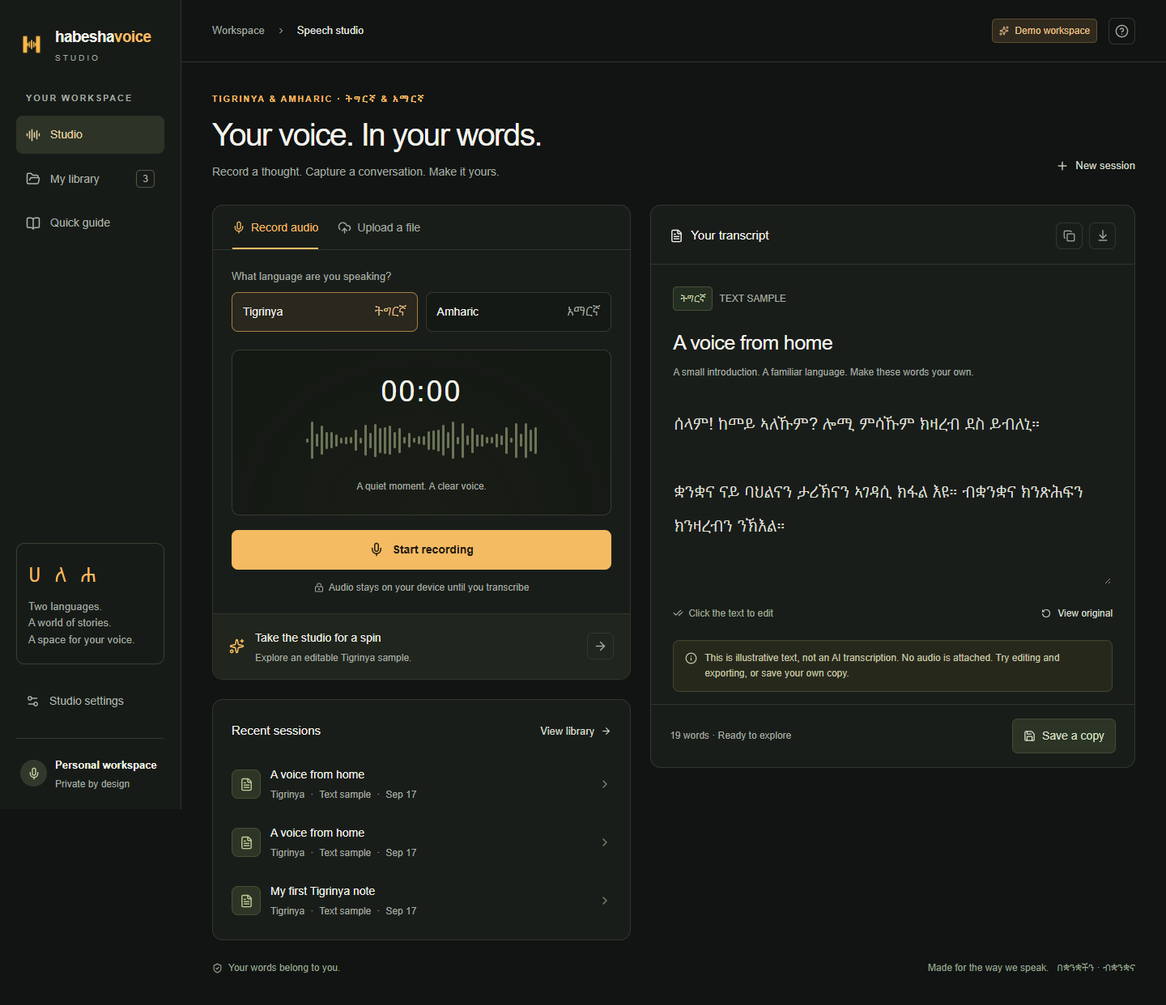
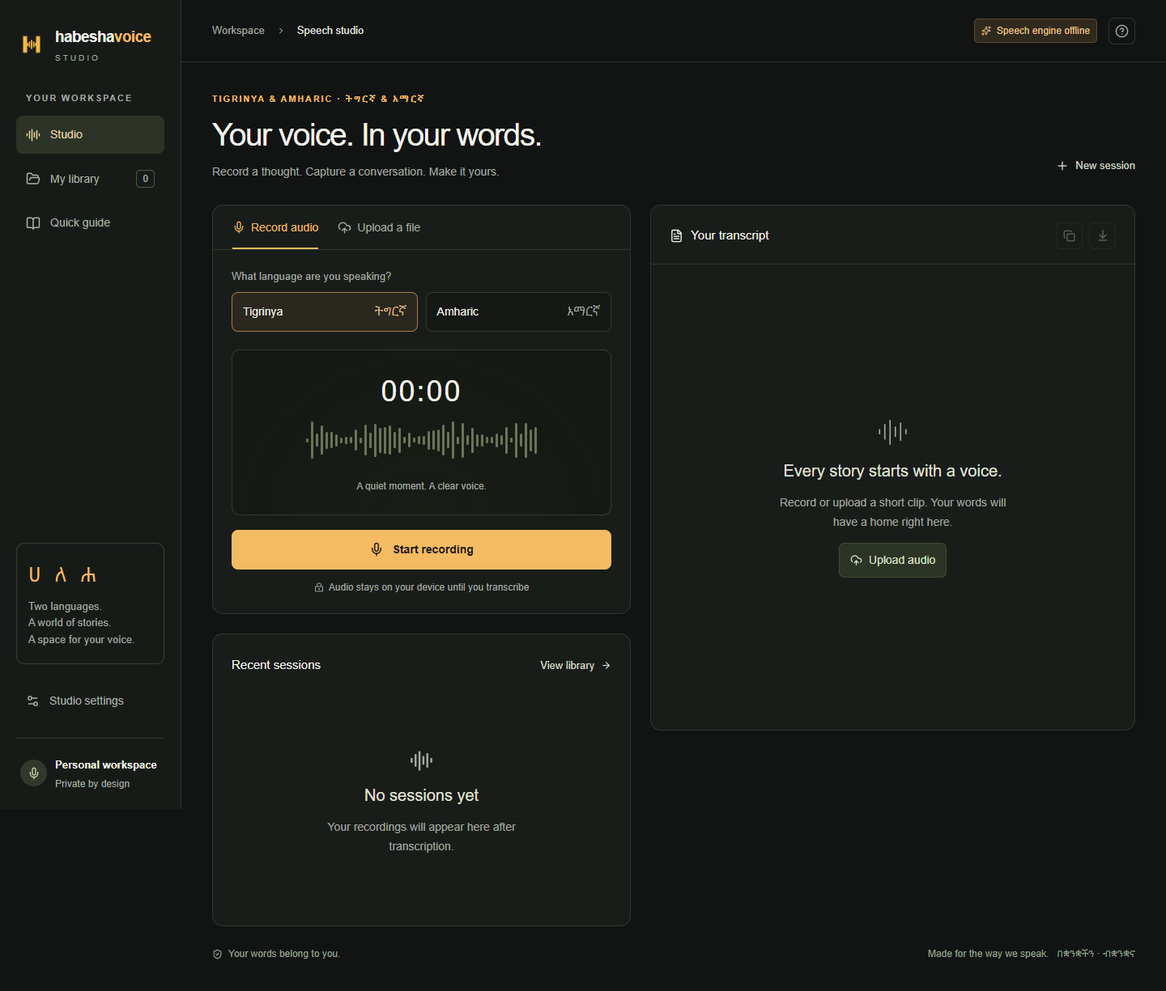
Remove demo transcripts and clarify speech readiness

diff --git a/app/studio.tsx b/app/studio.tsx
@@ -2,7 +2,7 @@
 
 import { useCallback, useEffect, useRef, useState } from "react";
 import { ArrowDownToLine, ArrowRight, AudioLines, BookOpen, Check, CheckCheck, ChevronRight, CircleHelp, CloudUpload, Copy, FileText, FolderOpen, Info, LoaderCircle, LockKeyhole, Mic, Plus, RotateCcw, Save, Search, Settings2, ShieldCheck, Sparkles, Square, Trash2, X } from "lucide-react";
-import { formatTime, LANGUAGES, SAMPLES, type Language, type Transcript } from "../lib/types";
+import { formatTime, LANGUAGES, type Language, type Transcript } from "../lib/types";
 
 type Config = { transcriptionReady: boolean; storageReady: boolean; signedIn: boolean };
 type Modal = "guide" | "settings" | "export" | "delete" | "discard" | null;
@@ -27,7 +27,7 @@ export default function Studio() {
   const [view, setView] = useState<"studio" | "library">("studio");
   const [capture, setCapture] = useState<"record" | "upload">("record");
   const [language, setLanguage] = useState<Language>("ti");
-  const [selected, setSelected] = useState<Transcript | null>({...SAMPLES[0]});
+  const [selected, setSelected] = useState<Transcript | null>(null);
   const [saved, setSaved] = useState<Transcript[]>([]);
   const [dirty, setDirty] = useState(false);
   const [showOriginal, setShowOriginal] = useState(false);
@@ -127,7 +127,6 @@ export default function Studio() {
     const apply = () => {setSelected(next ? {...next} : null);setDirty(false);setShowOriginal(false);setView("studio");};
     if(dirty){pending.current=apply;setModal("discard");} else apply();
   }
-  function loadSample() { changeDocument(SAMPLES.find(s => s.language===language)!); notify("Text sample opened. Edit it, save a copy, or export."); }
   async function startRecording() {
     if(!navigator.mediaDevices?.getUserMedia || !window.MediaRecorder){setError("Recording needs a supported browser over HTTPS. You can upload an audio file instead.");return;}
     setError("");setRequestingMic(true);
@@ -188,9 +187,8 @@ export default function Studio() {
     if(!selected || !selected.title.trim()) {setError("Give your transcript a title before saving.");return;}
     setBusy("save");setError("");
     try {
-      const isNew=selected.id.startsWith("sample-");
-      const d=await api<{transcript:Transcript}>(isNew?"/api/transcripts":"/api/transcripts/"+selected.id,{method:isNew?"POST":"PATCH",headers:{"Content-Type":"application/json"},body:JSON.stringify(isNew?{title:selected.title,text:selected.text,language:selected.language,sampleId:selected.id}:{title:selected.title,text:selected.text})});
-      setSelected(d.transcript);setSaved(old=>[d.transcript,...old.filter(t=>t.id!==d.transcript.id)]);setDirty(false);notify(isNew?"Your sample copy is saved to the library.":"Changes saved.");
+      const d=await api<{transcript:Transcript}>("/api/transcripts/"+selected.id,{method:"PATCH",headers:{"Content-Type":"application/json"},body:JSON.stringify({title:selected.title,text:selected.text})});
+      setSelected(d.transcript);setSaved(old=>[d.transcript,...old.filter(t=>t.id!==d.transcript.id)]);setDirty(false);notify("Changes saved.");
     }catch(e){setError((e as Error).message);}finally{setBusy(null);}
   }
   async function remove() {
@@ -212,16 +210,16 @@ export default function Studio() {
     downloadFile(filename+"."+format,content,format==="md"?"text/markdown;charset=utf-8":"text/plain;charset=utf-8");
     setModal(null);notify("Transcript exported.");
   }
-  const recent=[...saved.slice(0,3),...SAMPLES].slice(0,3);
+  const recent=saved.slice(0,3);
   const filtered=saved.filter(t=>(t.title+" "+t.text+" "+LANGUAGES[t.language].name).toLowerCase().includes(search.toLowerCase()));
   const wordCount=selected?.text.trim().split(/\s+/).filter(Boolean).length||0;
-  const row=(t:Transcript) => <button key={t.id} className={"session-row"+(selected?.id===t.id?" selected":"")} onClick={()=>changeDocument(t)}><span className="session-icon">{t.source==="demo"?<FileText size={17}/>:<AudioLines size={17}/>}</span><span><b>{t.title}</b><small>{LANGUAGES[t.language].name}<span>·</span>{t.source==="demo"?"Text sample":formatTime(t.duration)}<span>·</span>{t.id.startsWith("sample-")?"Explore":new Date(t.createdAt).toLocaleDateString(undefined,{month:"short",day:"numeric"})}</small></span><ChevronRight size={16}/></button>;
+  const row=(t:Transcript) => <button key={t.id} className={"session-row"+(selected?.id===t.id?" selected":"")} onClick={()=>changeDocument(t)}><span className="session-icon">{<AudioLines size={17}/>}</span><span><b>{t.title}</b><small>{LANGUAGES[t.language].name}<span>·</span>{formatTime(t.duration)}<span>·</span>{new Date(t.createdAt).toLocaleDateString(undefined,{month:"short",day:"numeric"})}</small></span><ChevronRight size={16}/></button>;
   return <div className="shell" inert={!hydrated} aria-busy={!hydrated}>
     <aside className="sidebar"><Brand/><div><div className="nav-label">Your workspace</div><nav className="nav" aria-label="Main navigation"><button className={view==="studio"?"active":""} onClick={()=>setView("studio")}><AudioLines size={18}/>Studio</button><button className={view==="library"?"active":""} onClick={()=>setView("library")}><FolderOpen size={18}/>My library<span className="count">{saved.length}</span></button><button onClick={()=>setModal("guide")}><BookOpen size={18}/>Quick guide</button></nav></div><div className="sidebar-bottom"><div className="language-note"><p className="native" lang="ti">ሀ ለ ሐ</p><p>Two languages.<br/>A world of stories.<br/>A space for your voice.</p></div><nav className="nav" aria-label="Workspace settings"><button onClick={()=>setModal("settings")}><Settings2 size={17}/>Studio settings</button></nav><div className="profile"><span className="avatar"><Mic size={16}/></span><span><b>Personal workspace</b><small>Private by design</small></span></div></div></aside>
-    <div className="content"><header className="topbar"><div className="breadcrumb">Workspace<ChevronRight size={12}/><strong>{view==="studio"?"Speech studio":"My library"}</strong></div><Brand mobile/><div className="top-actions"><button className={"badge"+(!config?.transcriptionReady?" amber":"")} onClick={()=>setModal("settings")}>{config?.transcriptionReady?<AudioLines size={12}/>:<Sparkles size={12}/>} {config?.transcriptionReady?"Speech engine connected":"Demo workspace"}</button><button className="icon-button" aria-label="Open quick guide" onClick={()=>setModal("guide")}><CircleHelp size={17}/></button></div></header>
+    <div className="content"><header className="topbar"><div className="breadcrumb">Workspace<ChevronRight size={12}/><strong>{view==="studio"?"Speech studio":"My library"}</strong></div><Brand mobile/><div className="top-actions"><button className={"badge"+(!config?.transcriptionReady?" amber":"")} onClick={()=>setModal("settings")}>{config?.transcriptionReady?<AudioLines size={12}/>:<Sparkles size={12}/>} {config?.transcriptionReady?"Speech engine connected":"Speech engine offline"}</button><button className="icon-button" aria-label="Open quick guide" onClick={()=>setModal("guide")}><CircleHelp size={17}/></button></div></header>
     <main className="main"><div className="intro"><div><p className="eyebrow">Tigrinya & Amharic · ትግርኛ & አማርኛ</p><h1>{view==="studio"?"Your voice. In your words.":"A home for your words."}</h1><p>{view==="studio"?"Record a thought. Capture a conversation. Make it yours.":"Your saved transcripts, ready for the next chapter."}</p></div><button className="text-button" onClick={()=>changeDocument(null)}><Plus size={16}/>New session</button></div>
     {error&&<div className="alert" role="alert"><Info size={17}/><span>{error}</span><button aria-label="Dismiss error" onClick={()=>setError("")}><X size={16}/></button></div>}
-    {view==="library"?<><label className="searchbar"><Search size={18}/><input aria-label="Search transcripts" placeholder="Search your transcripts…" value={search} onChange={e=>setSearch(e.target.value)}/></label><section className="panel library-list">{filtered.length?filtered.map(row):<div className="empty"><FolderOpen size={32}/><h3>{search?"No matches yet":"Your library starts here"}</h3><p>{search?"Try another title, word, or language.":"Save a sample or transcribe your first recording to keep your words here."}</p><button className="button" onClick={()=>{setView("studio");loadSample();}}>Explore a sample<ArrowRight size={15}/></button></div>}</section></>:
+    {view==="library"?<><label className="searchbar"><Search size={18}/><input aria-label="Search transcripts" placeholder="Search your transcripts…" value={search} onChange={e=>setSearch(e.target.value)}/></label><section className="panel library-list">{filtered.length?filtered.map(row):<div className="empty"><FolderOpen size={32}/><h3>{search?"No matches yet":"Your library starts here"}</h3><p>{search?"Try another title, word, or language.":"Transcribe your first recording to keep your words here."}</p><button className="button" onClick={()=>setView("studio")}>Open studio<ArrowRight size={15}/></button></div>}</section></>:
     <div className="workspace"><div className="left-column">
       <section className="panel capture-panel" aria-label="Create a transcript"><div className="tabs" role="tablist" aria-label="Audio source"><button role="tab" aria-selected={capture==="record"} className={capture==="record"?"active":""} disabled={recording||!!busy} onClick={()=>setCapture("record")}><Mic size={16}/>Record audio</button><button role="tab" aria-selected={capture==="upload"} className={capture==="upload"?"active":""} disabled={recording||!!busy} onClick={()=>setCapture("upload")}><CloudUpload size={17}/>Upload a file</button></div>
       <div className="capture-body"><span className="field-label" id="language-label">What language are you speaking?</span><div className="language-picker" role="group" aria-labelledby="language-label">{(["ti","am"] as Language[]).map(l=><button key={l} className={language===l?"selected":""} aria-pressed={language===l} disabled={recording||!!busy} onClick={()=>setLanguage(l)}><span>{LANGUAGES[l].name}</span><span className="native" lang={l}>{LANGUAGES[l].native}</span></button>)}</div>
@@ -230,21 +228,20 @@ export default function Studio() {
       {fileUrl&&!recording&&<audio className="form-audio" controls src={fileUrl} aria-label="Review your audio before uploading"/>}
       {file&&!recording?<><label className="privacy-toggle"><input type="checkbox" checked={consent} onChange={e=>setConsent(e.target.checked)}/>I have permission to process this recording. Upload it for transcription and save it in my private library.</label><button className="record-control" disabled={!consent||!!busy} onClick={()=>void transcribe()}>{busy==="transcribe"?<LoaderCircle size={18} className="loading-spin"/>:<AudioLines size={18}/>} {busy==="transcribe"?"Transcribing your audio…":"Transcribe "+LANGUAGES[language].name}</button><button className="discard" disabled={!!busy} onClick={()=>{setFile(null);setSeconds(0);setConsent(false);}}>Discard audio{fileDuration>0?" · "+formatTime(fileDuration):""}</button></>:capture==="record"?<button className="record-control" disabled={requestingMic||!!busy} onClick={()=>recording?recorder.current?.stop():void startRecording()}>{requestingMic?<LoaderCircle size={18} className="loading-spin"/>:recording?<Square size={16} fill="currentColor"/>:<Mic size={18}/>} {requestingMic?"Opening microphone…":recording?"Stop recording":"Start recording"}</button>:null}
       <p className="capture-foot"><LockKeyhole size={12}/>{recording?"Stops automatically at 5 minutes":"Audio stays on your device until you transcribe"}</p></div>
-      <div className="sample-callout"><Sparkles size={19}/><div><b>Take the studio for a spin</b><p>Explore an editable {LANGUAGES[language].name} sample.</p></div><button className="icon-button" onClick={loadSample} aria-label={"Open "+LANGUAGES[language].name+" demo sample"}><ArrowRight size={17}/></button></div></section>
-      <section className="panel sessions"><div className="panel-head"><h2 className="panel-title">Recent sessions</h2><button className="text-button" onClick={()=>setView("library")}>View library<ArrowRight size={13}/></button></div><div className="session-list">{recent.map(row)}</div></section>
+      </section>
+      <section className="panel sessions"><div className="panel-head"><h2 className="panel-title">Recent sessions</h2><button className="text-button" onClick={()=>setView("library")}>View library<ArrowRight size={13}/></button></div><div className="session-list">{recent.length?recent.map(row):<div className="empty"><AudioLines size={29}/><h3>No sessions yet</h3><p>Your recordings will appear here after transcription.</p></div>}</div></section>
     </div>
-    <section className="panel transcript-panel" aria-label="Transcript editor"><div className="panel-head"><h2 className="panel-title"><FileText size={17}/>Your transcript</h2><div className="transcript-tools"><button className="icon-button" aria-label="Copy transcript" disabled={!selected} onClick={()=>void copy()}><Copy size={15}/></button><button className="icon-button" aria-label="Export transcript" disabled={!selected} onClick={()=>setModal("export")}><ArrowDownToLine size={16}/></button>{selected&&!selected.id.startsWith("sample-")&&<button className="icon-button" aria-label="Delete transcript" onClick={()=>setModal("delete")}><Trash2 size={15}/></button>}</div></div>
-    {selected?<><div className="document"><div className="document-meta"><span className="badge">{LANGUAGES[selected.language].native}</span><span>{selected.source==="demo"?"TEXT SAMPLE":formatTime(selected.duration)+" AUDIO"}</span></div><input className="document-title" aria-label="Transcript title" disabled={!!busy} maxLength={120} value={selected.title} onChange={e=>{setSelected({...selected,title:e.target.value});setDirty(true);}}/><p className="document-subtitle">{selected.source==="demo"?"A small introduction. A familiar language. Make these words your own.":"Listen back, check the details, and make your final edits."}</p>
+    <section className="panel transcript-panel" aria-label="Transcript editor"><div className="panel-head"><h2 className="panel-title"><FileText size={17}/>Your transcript</h2><div className="transcript-tools"><button className="icon-button" aria-label="Copy transcript" disabled={!selected} onClick={()=>void copy()}><Copy size={15}/></button><button className="icon-button" aria-label="Export transcript" disabled={!selected} onClick={()=>setModal("export")}><ArrowDownToLine size={16}/></button>{selected&&<button className="icon-button" aria-label="Delete transcript" onClick={()=>setModal("delete")}><Trash2 size={15}/></button>}</div></div>
+    {selected?<><div className="document"><div className="document-meta"><span className="badge">{LANGUAGES[selected.language].native}</span><span>{formatTime(selected.duration)+" AUDIO"}</span></div><input className="document-title" aria-label="Transcript title" disabled={!!busy} maxLength={120} value={selected.title} onChange={e=>{setSelected({...selected,title:e.target.value});setDirty(true);}}/><p className="document-subtitle">Listen back, check the details, and make your final edits.</p>
     {selected.hasAudio&&<audio controls src={"/api/transcripts/"+selected.id+"/audio"} aria-label="Play original recording"/>}
     <label className="visually-hidden" htmlFor="transcript">Transcript text</label><textarea id="transcript" disabled={!!busy} lang={selected.language} spellCheck={false} readOnly={showOriginal} value={showOriginal?selected.original:selected.text} onChange={e=>{setSelected({...selected,text:e.target.value});setDirty(true);}} maxLength={50000}/><div className="print-content" lang={selected.language}>{selected.text}</div>
     <div className="doc-hint"><span style={{display:"flex",gap:6,alignItems:"center"}}>{showOriginal?<LockKeyhole size={12}/>:<CheckCheck size={13}/>} {showOriginal?"Original text · Read only":"Click the text to edit"}</span><button className="text-button" style={{fontSize:12,marginLeft:"auto"}} onClick={()=>setShowOriginal(!showOriginal)}><RotateCcw size={12}/>{showOriginal?"Back to edits":"View original"}</button></div>
-    {selected.source==="demo"&&<div className="demo-note"><Info size={15}/><span>This is illustrative text, not an AI transcription. No audio is attached. Try editing and exporting, or save your own copy.</span></div>}
-    </div><div className="doc-bottom"><span>{wordCount} words · {dirty?"Unsaved changes":selected.id.startsWith("sample-")?"Ready to explore":"Saved to library"}</span><button className="button" disabled={!!busy||(!dirty&&!selected.id.startsWith("sample-"))} onClick={()=>void save()}>{busy==="save"?<LoaderCircle size={15} className="loading-spin"/>:<Save size={15}/>} {selected.id.startsWith("sample-")?"Save a copy":"Save changes"}</button></div></>:<div className="empty" style={{flex:1}}><AudioLines size={39} strokeWidth={1}/><h3>Every story starts with a voice.</h3><p>Record or upload a short clip. Your words will have a home right here.</p><button className="button" onClick={loadSample}><Sparkles size={15}/>Explore a sample</button></div>}</section></div>}
+    </div><div className="doc-bottom"><span>{wordCount} words · {dirty?"Unsaved changes":"Saved to library"}</span><button className="button" disabled={!!busy||!dirty} onClick={()=>void save()}>{busy==="save"?<LoaderCircle size={15} className="loading-spin"/>:<Save size={15}/>} Save changes</button></div></>:<div className="empty" style={{flex:1}}><AudioLines size={39} strokeWidth={1}/><h3>Every story starts with a voice.</h3><p>Record or upload a short clip. Your words will have a home right here.</p><button className="button" onClick={()=>setCapture("upload")}><CloudUpload size={15}/>Upload audio</button></div>}</section></div>}
     <footer className="footer"><span><ShieldCheck size={13}/>Your words belong to you.</span><span>Made for the way we speak. &nbsp; በቋንቋችን · ብቋንቋና</span></footer></main></div>
     {toast&&<div className="toast" role="status"><Check size={16}/>{toast}</div>}
     {modal&&<div className="modal-backdrop" onMouseDown={e=>{if(e.target===e.currentTarget&&!busy)setModal(null);}}><div ref={modalRef} className="modal" role="dialog" aria-modal="true" aria-labelledby="modal-title"><div className="modal-head"><h2 id="modal-title">{{guide:"A little guide to the studio",settings:"Your studio",export:"Take your words with you",delete:"Delete this session?",discard:"You have unsaved edits"}[modal]}</h2><button className="icon-button" aria-label="Close dialog" disabled={!!busy} onClick={()=>setModal(null)}><X size={17}/></button></div>
-    {modal==="guide"&&<><h3>01 · Bring your voice</h3><p>Choose Tigrinya or Amharic. Record up to five minutes, or upload an audio file. Use headphones and a quiet room for clearer speech.</p><h3>02 · Make it accurate</h3><p>Review the transcript while listening to your recording. Names, numbers, regional speech, and mixed languages deserve an extra check. Your original transcript stays available.</p><h3>03 · Make it useful</h3><p>Save your edits in the library. Copy your words, download a text or Markdown file, or print to PDF.</p><div className="demo-note"><Info size={16}/><span>Text samples let you try editing and exports immediately. Real transcription requires a connected speech engine.</span></div></>}
-    {modal==="settings"&&<><div className="status-row"><span>Languages</span><b>Tigrinya & Amharic</b></div><div className="status-row"><span>Speech engine</span><span className="badge amber">{config?.transcriptionReady?"Connected":"Not connected"}</span></div><div className="status-row"><span>Private library</span><span className="badge">{config?.storageReady&&config.signedIn?"Available":"Unavailable"}</span></div><h3>{config?.transcriptionReady?"Ready for your voice":"Demo ready. Bring your speech engine."}</h3><p>{config?.transcriptionReady?"You can transcribe recordings up to five minutes. Accuracy varies; review each transcript before relying on it.":"You can record, preview audio, edit text samples, save copies, and export. To transcribe real speech, the workspace owner must connect the inference service included in the repository."}</p><h3>Keep the studio close</h3><p>Use your browser’s Install app or Add to Home Screen option to open HabeshaVoice as its own app. Transcription and your private library need an internet connection.</p><h3>Your recordings, your choice</h3><p>Audio uploads only when you choose Transcribe. Saved recordings and transcripts stay in your private library until you delete the session. Recordings are not used to train models by this app.</p></>}
+    {modal==="guide"&&<><h3>01 · Bring your voice</h3><p>Choose Tigrinya or Amharic. Record up to five minutes, or upload an audio file. Use headphones and a quiet room for clearer speech.</p><h3>02 · Make it accurate</h3><p>Review the transcript while listening to your recording. Names, numbers, regional speech, and mixed languages deserve an extra check. Your original transcript stays available.</p><h3>03 · Make it useful</h3><p>Save your edits in the library. Copy your words, download a text or Markdown file, or print to PDF.</p></>}
+    {modal==="settings"&&<><div className="status-row"><span>Languages</span><b>Tigrinya & Amharic</b></div><div className="status-row"><span>Speech engine</span><span className="badge amber">{config?.transcriptionReady?"Connected":"Not connected"}</span></div><div className="status-row"><span>Private library</span><span className="badge">{config?.storageReady&&config.signedIn?"Available":"Unavailable"}</span></div><h3>{config?.transcriptionReady?"Ready for your voice":"Speech engine setup required"}</h3><p>{config?.transcriptionReady?"You can transcribe recordings up to five minutes. Accuracy varies; review each transcript before relying on it.":"Recording and audio preview are available. Transcription requires the workspace owner to connect the inference service included in the repository."}</p><h3>Keep the studio close</h3><p>Use your browser’s Install app or Add to Home Screen option to open HabeshaVoice as its own app. Transcription and your private library need an internet connection.</p><h3>Your recordings, your choice</h3><p>Audio uploads only when you choose Transcribe. Saved recordings and transcripts stay in your private library until you delete the session. Recordings are not used to train models by this app.</p></>}
     {modal==="export"&&<><p>Export the current edited transcript in {selected?LANGUAGES[selected.language].name:"your language"}.</p><div style={{display:"grid",gap:10}}><button className="button" onClick={()=>exportText("txt")}><FileText size={17}/>Plain text (.txt)</button><button className="button" onClick={()=>exportText("md")}><FileText size={17}/>Markdown (.md)</button><button className="button" onClick={()=>{setModal(null);setTimeout(()=>window.print(),100);}}><ArrowDownToLine size={17}/>Print / Save as PDF</button></div></>}
     {modal==="delete"&&<><p>This permanently deletes <strong>{selected?.title}</strong> and its saved audio from your library. Export anything you want to keep first.</p><button className="button danger" disabled={!!busy} onClick={()=>void remove()}>{busy?<LoaderCircle className="loading-spin" size={16}/>:<Trash2 size={16}/>}Delete session</button></>}
     {modal==="discard"&&<><p>Your changes have not been saved. You can keep editing, or discard these changes and continue.</p><div style={{display:"flex",gap:10}}><button className="button" onClick={()=>setModal(null)}>Keep editing</button><button className="button danger" onClick={()=>{setModal(null);pending.current?.();pending.current=null;}}>Discard changes</button></div></>}

diff --git a/tests/browser/studio.spec.ts b/tests/browser/studio.spec.ts
@@ -1,75 +1,41 @@
 import {test,expect} from "@playwright/test";
-import fs from "node:fs/promises";
-test("workspace, edit, persistent save, export and delete",async({page})=>{
+test("honest empty workspace and no generated sample text",async({page})=>{
  const errors:string[]=[];page.on("pageerror",e=>errors.push(e.message));
- await page.goto("/"); await expect(page.locator(".shell")).toHaveAttribute("aria-busy","false");
- await expect(page.getByRole("heading",{name:"Your voice. In your words."})).toBeVisible();
- await expect(page.getByRole("alert")).toHaveCount(0);
- const text=page.getByRole("textbox",{name:"Transcript text"});
- const original=await text.inputValue();
- await page.getByRole("textbox",{name:"Transcript title"}).fill("Browser verification note");
- await text.fill(original+"\n\nሰላም!"); await expect(page.getByText("Unsaved changes")).toBeVisible();
- await page.getByRole("button",{name:"Save a copy",exact:true}).click();
- await expect(page.getByRole("button",{name:"Save changes",exact:true})).toBeDisabled();
- await page.getByRole("button",{name:"View original",exact:true}).click();
- await expect(text).toHaveValue(original);
- await page.getByRole("button",{name:"Back to edits",exact:true}).click();
- await expect(text).toHaveValue(original+"\n\nሰላም!");
- await page.getByRole("button",{name:"Export transcript",exact:true}).click();
- const downloading=page.waitForEvent("download");
- await page.getByRole("button",{name:"Plain text (.txt)",exact:true}).click();
- const download=await downloading;
- expect(await download.failure()).toBeNull();
- const path=await download.path();expect(path).toBeTruthy();
- expect(await fs.readFile(path!,"utf8")).toBe(original+"\n\nሰላም!");
- await page.reload();
- await page.getByRole("button",{name:/My library/}).click();
- await page.getByRole("textbox",{name:"Search transcripts"}).fill("Browser verification note");
- await page.getByRole("button",{name:/Browser verification note/}).click();
- await expect(text).toHaveValue(original+"\n\nሰላም!");
- await page.getByRole("button",{name:"Delete transcript",exact:true}).click();
- await page.getByRole("button",{name:"Delete session",exact:true}).click();
+ await page.goto("/");await expect(page.locator(".shell")).toHaveAttribute("aria-busy","false");
  await expect(page.getByRole("heading",{name:"Every story starts with a voice."})).toBeVisible();
+ await expect(page.getByRole("heading",{name:"No sessions yet"})).toBeVisible();
+ await expect(page.getByText("Speech engine offline")).toBeVisible();
+ await expect(page.getByRole("textbox",{name:"Transcript text"})).toHaveCount(0);
+ await page.getByRole("button",{name:/My library/}).click();
+ await expect(page.getByRole("heading",{name:"Your library starts here"})).toBeVisible();
  expect(errors).toEqual([]);
 });
-test("fake microphone capture, preview and consent gate",async({page,context})=>{
+test("recording, preview, consent and disconnected speech engine",async({page,context})=>{
  await context.grantPermissions(["microphone"]);
- await page.goto("/"); await expect(page.locator(".shell")).toHaveAttribute("aria-busy","false");
+ await page.goto("/");await expect(page.locator(".shell")).toHaveAttribute("aria-busy","false");
  await page.getByRole("button",{name:"Start recording",exact:true}).click();
  await expect(page.getByRole("button",{name:"Stop recording",exact:true})).toBeVisible();
- await expect(page.locator(".timer")).toHaveText(/00:0[1-9]/);
  await page.getByRole("button",{name:"Stop recording",exact:true}).click();
  await expect(page.locator("audio.form-audio")).toBeVisible();
  await expect(page.getByRole("button",{name:"Transcribe Tigrinya",exact:true})).toBeDisabled();
  await page.getByRole("checkbox").check();
  await page.getByRole("button",{name:"Transcribe Tigrinya",exact:true}).click();
  await expect(page.getByRole("dialog")).toContainText("Not connected");
- await page.getByRole("button",{name:"Close dialog",exact:true}).click();
- await expect(page.locator("audio.form-audio")).toBeVisible();
 });
-test("mobile layout, language switching and sample editing",async({page})=>{
- await page.setViewportSize({width:390,height:844});await page.goto("/"); await expect(page.locator(".shell")).toHaveAttribute("aria-busy","false");
+test("mobile layout and language switching",async({page})=>{
+ await page.setViewportSize({width:390,height:844});await page.goto("/");
+ await expect(page.locator(".shell")).toHaveAttribute("aria-busy","false");
  await page.getByRole("button",{name:"Amharic አማርኛ",exact:true}).click();
- await page.getByRole("button",{name:"Open Amharic demo sample",exact:true}).click();
- await expect(page.getByRole("textbox",{name:"Transcript title"})).toHaveValue("A moment to connect");
+ await expect(page.getByRole("button",{name:"Amharic አማርኛ",exact:true})).toHaveAttribute("aria-pressed","true");
  expect(await page.evaluate(()=>document.documentElement.scrollWidth<=innerWidth)).toBe(true);
- await page.screenshot({path:"test-results/studio-mobile.png",fullPage:true});
+ await page.screenshot({path:"docs/studio-mobile.png",fullPage:true});
 });
-test("unsaved changes are protected when switching documents",async({page})=>{
- await page.goto("/"); await expect(page.locator(".shell")).toHaveAttribute("aria-busy","false");
- await page.getByRole("textbox",{name:"Transcript title"}).fill("Unsaved title"); await expect(page.getByText("Unsaved changes")).toBeVisible();
- await page.getByRole("button",{name:"Amharic አማርኛ",exact:true}).click(); await page.getByRole("button",{name:"Open Amharic demo sample",exact:true}).click();
- await expect(page.getByRole("dialog")).toContainText("unsaved edits");
- await page.getByRole("button",{name:"Keep editing",exact:true}).click();
- await expect(page.getByRole("textbox",{name:"Transcript title"})).toHaveValue("Unsaved title");
-});
-test("desktop screenshot and install manifest",async({page})=>{
- await page.goto("/"); await expect(page.locator(".shell")).toHaveAttribute("aria-busy","false");
- await expect(page.getByRole("alert")).toHaveCount(0);
- await page.screenshot({path:"test-results/studio-desktop.png",fullPage:true});
+test("manifest and desktop rendering",async({page})=>{
+ await page.goto("/");await expect(page.locator(".shell")).toHaveAttribute("aria-busy","false");
  const manifest=await(await page.request.get("/manifest.webmanifest")).json();
- expect(manifest.display).toBe("standalone");
- expect(manifest.name).toBe("HabeshaVoice Studio");
+ expect(manifest.display).toBe("standalone");expect(manifest.name).toBe("HabeshaVoice Studio");
+ await expect(page.getByRole("alert")).toHaveCount(0);
+ await page.screenshot({path:"docs/studio-desktop.png",fullPage:true});
 });
 
 

diff --git a/lib/server.ts b/lib/server.ts
@@ -22,11 +22,11 @@ export function failure(e:unknown){
  console.error("HabeshaVoice request failed",{type:e instanceof Error?e.name:"Unknown"});
  return json({error:"Your request could not be completed. Please try again; your edits have been preserved."},503);
 }
-export type Row={id:string;owner:string;title:string;language:"ti"|"am";text:string;original:string;created_at:string;duration:number;source:"demo"|"recording"|"upload";audio_key:string|null;mime:string|null};
+export type Row={id:string;owner:string;title:string;language:"ti"|"am";text:string;original:string;created_at:string;duration:number;source:"recording"|"upload";audio_key:string|null;mime:string|null};
 export function publicTranscript(row:Row):Transcript{return{id:row.id,title:row.title,language:row.language,text:row.text,original:row.original,createdAt:row.created_at,duration:row.duration,source:row.source,hasAudio:!!row.audio_key};}
 export async function getOwned(id:string,user:string){
  if(!/^[0-9a-f-]{36}$/i.test(id))throw new ApiError(404,"This transcript was not found.");
- const row=await db().prepare("SELECT * FROM transcripts WHERE id = ? AND owner = ?").bind(id,user).first<Row>();
+ const row=await db().prepare("SELECT * FROM transcripts WHERE id = ? AND owner = ? AND source != 'demo'").bind(id,user).first<Row>();
  if(!row)throw new ApiError(404,"This transcript was not found.");
  return row;
 }
@@ -40,7 +40,7 @@ export async function boundedBody(request:Request,max:number){
 }
 export async function readJson(request:Request){const bytes=await boundedBody(request,200000);return JSON.parse(new TextDecoder().decode(bytes));}
 export async function libraryLimit(user:string){
- const count=await db().prepare("SELECT count(*) AS n FROM transcripts WHERE owner = ?").bind(user).first<{n:number}>();
+ const count=await db().prepare("SELECT count(*) AS n FROM transcripts WHERE owner = ? AND source != 'demo'").bind(user).first<{n:number}>();
  if((count?.n??0)>=100)throw new ApiError(429,"Your library holds 100 sessions. Export and delete a session before adding another.");
 }
 

diff --git a/app/api/transcripts/route.ts b/app/api/transcripts/route.ts
@@ -1,14 +1,3 @@
-import { createSchema } from "../../../lib/validation";
-import { SAMPLES } from "../../../lib/types";
-import { db,owner,json,failure,publicTranscript,readJson,libraryLimit,ApiError,type Row } from "../../../lib/server";
+import { db,owner,json,failure,publicTranscript,type Row } from "../../../lib/server";
 export const dynamic="force-dynamic";
-export async function GET(){try{const user=await owner();const result=await db().prepare("SELECT * FROM transcripts WHERE owner = ? ORDER BY created_at DESC LIMIT 100").bind(user).all<Row>();return json({transcripts:result.results.map(publicTranscript)});}catch(e){return failure(e);}}
-export async function POST(request:Request){try{
- const user=await owner(request);const input=createSchema.parse(await readJson(request));
- const sample=SAMPLES.find(s=>s.id===input.sampleId && s.language===input.language);if(!sample)throw new ApiError(400,"Choose a matching sample language.");
- await libraryLimit(user);
- const id=crypto.randomUUID(),createdAt=new Date().toISOString();
- await db().prepare("INSERT INTO transcripts (id,owner,title,language,text,original,created_at,duration,source) VALUES (?,?,?,?,?,?,?,0,'demo')").bind(id,user,input.title,input.language,input.text,sample.original,createdAt).run();
- return json({transcript:{id,title:input.title,language:input.language,text:input.text,original:sample.original,createdAt,duration:0,source:"demo",hasAudio:false}},201);
-}catch(e){return failure(e);}}
-
+export async function GET(){try{const user=await owner();const result=await db().prepare("SELECT * FROM transcripts WHERE owner = ? AND source != 'demo' ORDER BY created_at DESC LIMIT 100").bind(user).all<Row>();return json({transcripts:result.results.map(publicTranscript)});}catch(e){return failure(e);}}

diff --git a/lib/types.ts b/lib/types.ts
@@ -1,11 +1,5 @@
 export type Language = "ti" | "am";
-export type Transcript = { id: string; title: string; language: Language; text: string; original: string; createdAt: string; duration: number; source: "demo" | "recording" | "upload"; hasAudio: boolean; };
+export type Transcript = { id: string; title: string; language: Language; text: string; original: string; createdAt: string; duration: number; source: "recording" | "upload"; hasAudio: boolean; };
 export const LANGUAGES = { ti: { name: "Tigrinya", native: "ትግርኛ" }, am: { name: "Amharic", native: "አማርኛ" } };
-const ti = "ሰላም! ከመይ ኣለኹም? ሎሚ ምሳኹም ክዛረብ ደስ ይብለኒ።\n\nቋንቋና ናይ ባህልናን ታሪኽናን ኣገዳሲ ክፋል እዩ። ብቋንቋና ክንጽሕፍን ክንዛረብን ንኽእል።";
-const am = "ሰላም! እንዴት ናችሁ? ዛሬ ከእናንተ ጋር ማውራት ደስ ይለኛል።\n\nቋንቋችን የባህላችንና የታሪካችን አስፈላጊ ክፍል ነው። በቋንቋችን መጻፍና መናገር እንችላለን።";
-export const SAMPLES: Transcript[] = [
- { id: "sample-ti", title: "A voice from home", language: "ti", text: ti, original: ti, createdAt: "2026-09-16T09:00:00Z", duration: 0, source: "demo", hasAudio: false },
- { id: "sample-am", title: "A moment to connect", language: "am", text: am, original: am, createdAt: "2026-09-16T08:00:00Z", duration: 0, source: "demo", hasAudio: false }
-];
 export function formatTime(seconds: number) { return Math.floor(seconds / 60).toString().padStart(2,"0") + ":" + Math.floor(seconds % 60).toString().padStart(2,"0"); }
 

diff --git a/app/api/transcribe/route.ts b/app/api/transcribe/route.ts
@@ -5,7 +5,7 @@ export async function POST(request:Request){
  let audioKey:string|null=null;
  try{
  const user=await owner(request);const b=bindings();
- if(!b.ASR_ENDPOINT||!b.ASR_API_KEY)throw new ApiError(503,"The speech engine is not connected yet. Your audio has not been uploaded. Explore a text sample or ask the workspace owner to connect the inference service.");
+ if(!b.ASR_ENDPOINT||!b.ASR_API_KEY)throw new ApiError(503,"The speech engine is not connected yet. Your audio has not been uploaded. Ask the workspace owner to connect the inference service.");
  const endpoint=new URL(b.ASR_ENDPOINT);if(endpoint.protocol!=="https:")throw new ApiError(503,"The speech engine requires a secure connection.");
  if(!request.headers.get("content-type")?.startsWith("multipart/form-data"))throw new ApiError(415,"Upload an audio file using the studio.");
  const bytes=await boundedBody(request,MAX_AUDIO_BYTES+65536);

diff --git a/lib/validation.ts b/lib/validation.ts
@@ -1,7 +1,6 @@
 import { z } from "zod";
 export const languageSchema=z.enum(["ti","am"]);
 export const editSchema=z.object({title:z.string().trim().min(1).max(120),text:z.string().max(50000)}).strict();
-export const createSchema=editSchema.extend({language:languageSchema,sampleId:z.enum(["sample-ti","sample-am"])}).strict();
 export const inferenceSchema=z.object({text:z.string().min(1).max(50000),duration:z.number().finite().positive().max(300.5)});
 export const MAX_AUDIO_BYTES=25*1024*1024;
 export function isSameOrigin(request:Request){

diff --git a/README.md b/README.md
@@ -8,7 +8,6 @@ A private, responsive speech workspace for **Tigrinya and Amharic**. Record or u
 
 - Professional desktop and mobile UI with a custom brand mark.
 - Browser recording, playback, file previews, and explicit upload consent.
-- Tigrinya and Amharic text samples clearly labeled as illustrative demo content.
 - Private D1-backed transcript library and R2 audio storage.
 - Editable titles/transcripts, immutable original, copy, UTF-8 TXT/Markdown export, print/PDF.
 - Authenticated APIs, ownership checks, same-origin writes, bounded uploads and inference.
@@ -17,9 +16,9 @@ A private, responsive speech workspace for **Tigrinya and Amharic**. Record or u
 
 ## Release status
 
-**The demo and library work. Real transcription requires deploying the inference service and setting two server secrets.**
+**The app is published, but real transcription requires deploying the inference service and setting two server secrets.**
 
-No model is bundled in the web deployment. The app never substitutes sample text for a real upload. It reports when the speech engine is not configured.
+No model is bundled in the web deployment. The app does not generate placeholder transcripts. It reports when the speech engine is not configured.
 
 Speech accuracy has **not been measured** on representative, native-speaker-reviewed data. Dialect recognition, translation, summaries, live streaming, and offline ASR are not included. This is a production-oriented first release, not a claim of completed production acceptance.
 
@@ -80,7 +79,7 @@ Five minutes and 25 MB per recording; 100 library sessions per user; 20 transcri
 
 Audio stays on the device until the user consents and clicks Transcribe. Successful recordings remain private with their transcript until deleted. Temporary inference files are cleaned up. This app does not train models from recordings.
 
-Demo text has no audio attached. Exports contain current edited text. PDF uses the browser's print dialog and Ethiopic font support.
+Exports contain current edited text. PDF uses the browser's print dialog and Ethiopic font support.
 
 ## Evaluate accuracy
 

diff --git a/docs/DEPLOYMENT.md b/docs/DEPLOYMENT.md
@@ -30,7 +30,7 @@ Set via the hosting platform:
 - ASR_ENDPOINT: full HTTPS URL ending in /v1/transcribe.
 - ASR_API_KEY: matching random secret.
 
-With either missing, demo/library stay available and transcription returns a clear 503. Readiness in the UI indicates configuration, not a continuous upstream health check.
+With either missing, recording and library views stay available and transcription returns a clear 503. Readiness in the UI indicates configuration, not a continuous upstream health check.
 
 ## Production acceptance still required
 
